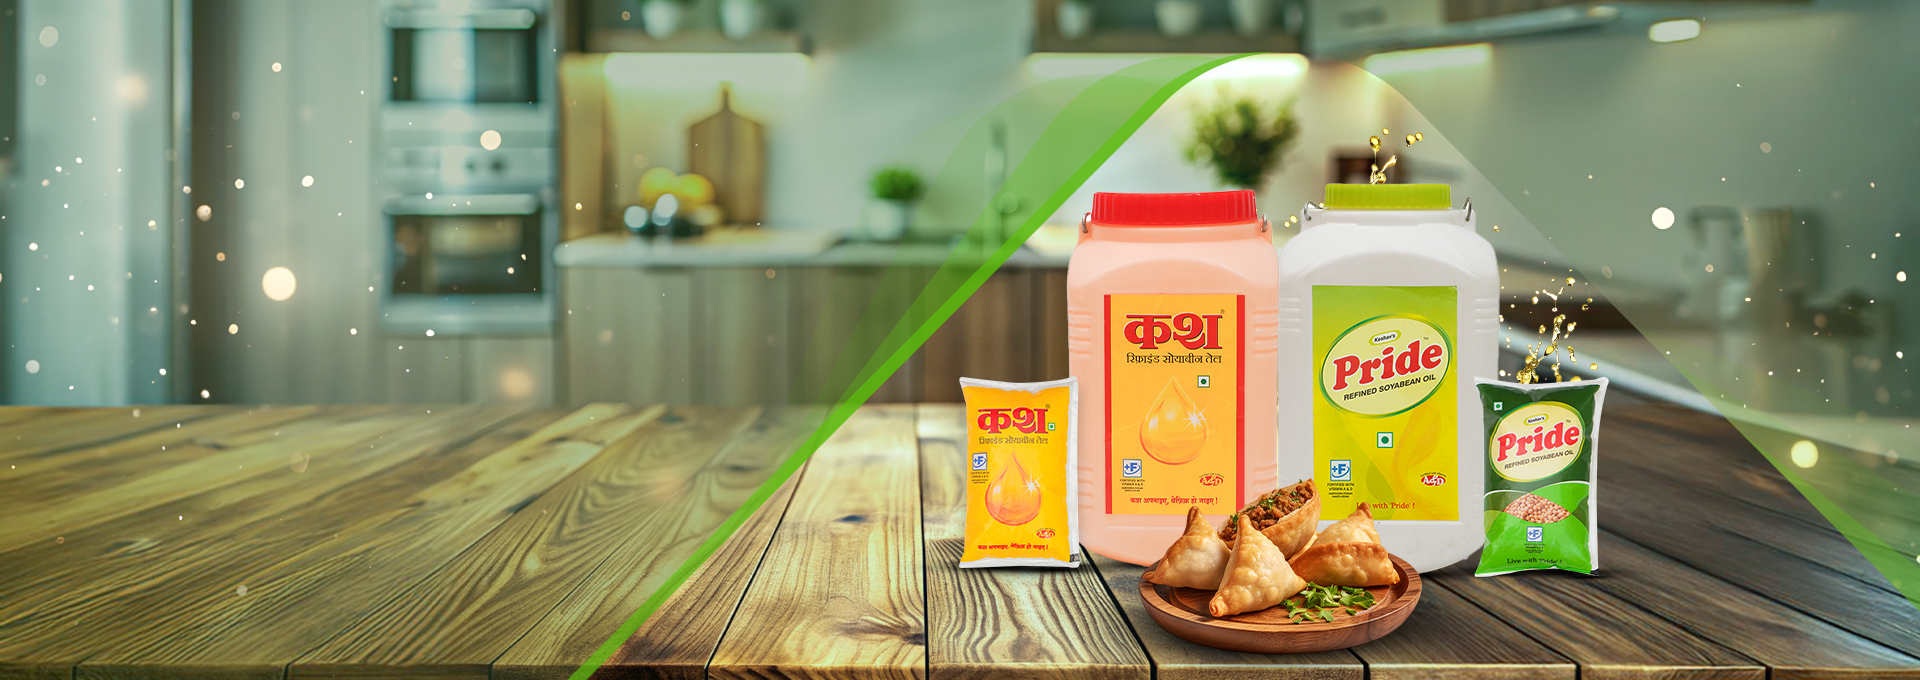
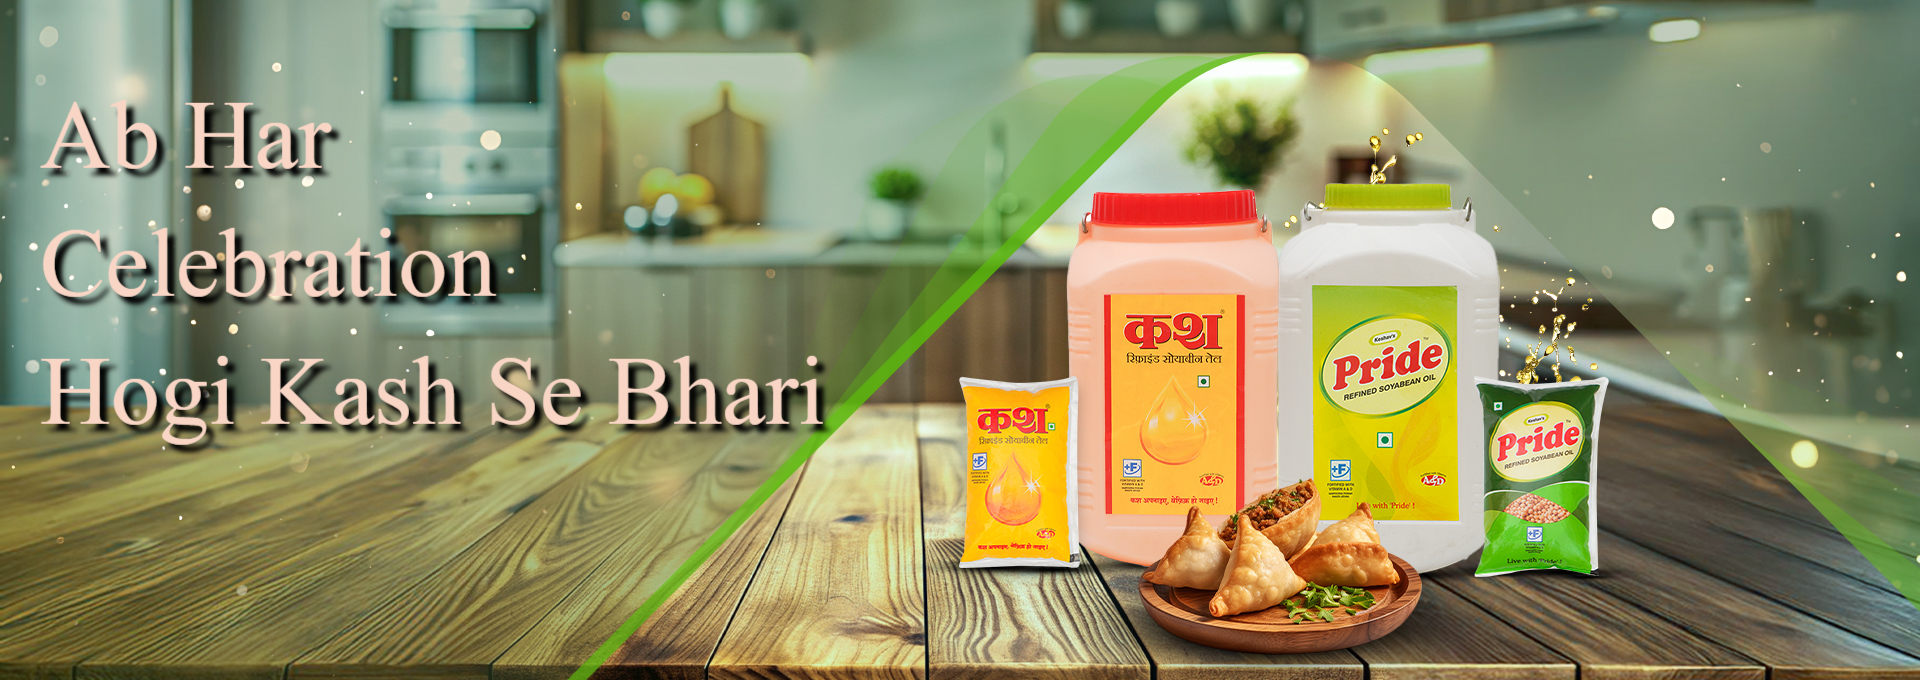
update 2

Changed region(s): [[0.0, 0.525, 0.4375, 0.6794], [0.0, 0.3397, 0.2812, 0.4632], [0.0, 0.1235, 0.1875, 0.2779]]

diff --git a/src/pages/home/HomePage.jsx b/src/pages/home/HomePage.jsx
@@ -20,6 +20,12 @@ const slides = [
     "../img/oil_pic.jpg",
     "../img/sarso_oil_pic.jpg",
 ]
+const imgSlide = [
+    "../img/image-1.jpg",
+    "../img/image-2.jpg",
+    "../img/image-3.jpg",
+    "../img/image-4.jpg",
+]
 const HomePage = () => {
     const fadeInUp = {
         hidden: { opacity: 0, y: 40 },
@@ -35,13 +41,13 @@ const HomePage = () => {
             <div className="bg-customNewBack">
                 <ImageSlider>
                     {slides.map((s) => (
-                        <img className="w-screen h-2/4" src={s} />
+                        <img className="w-screen h-2/4 hidden md:block" src={s} />
                     ))}
                 </ImageSlider>
 
-                <MobileImageSlider>
-                    {slides.map((s) => (
-                        <img className="w-screen h-2/4" src={s} />
+                <MobileImageSlider >
+                    {imgSlide.map((s) => (
+                        <img className="w-screen h-2/4 block md:hidden" src={s} />
                     ))}
                 </MobileImageSlider>
 
@@ -62,7 +68,7 @@ const HomePage = () => {
                 <HomePageProductCard />
 
                 {/* <Carousel /> */}
-                
+
                 <Testimonial />
             </div>
         </Layout>

diff --git a/src/components/homeutils/About.jsx b/src/components/homeutils/About.jsx
@@ -33,7 +33,7 @@ const About = () => {
                 initial={{ rotateY: 90, rotateX: 10, opacity: 0 }}
                 animate={controls}
                 viewport={{ once: true, amount: 0.2 }}
-                className="w-full pt-20 pb-24 home_abt bg-[url('../img/Home_abt_img.jpg')] bg-cover bg-center"
+                className="w-full pt-20 pb-24 home_abt bg-[url('../img/Home_abt_img.jpg')] bg-cover bg-center hidden md:block"
                 style={{ perspective: 1000 }}
             >
                 <div className="flex ps-72 ">
